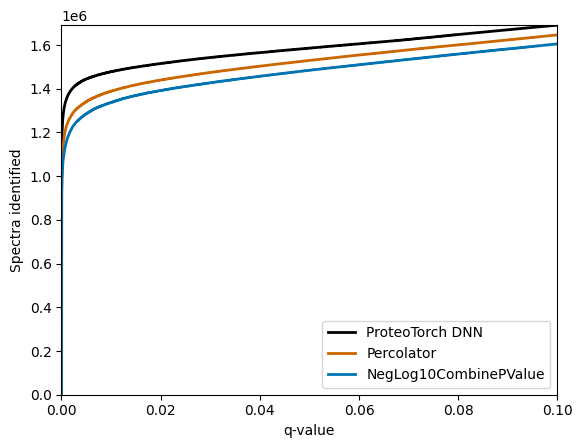
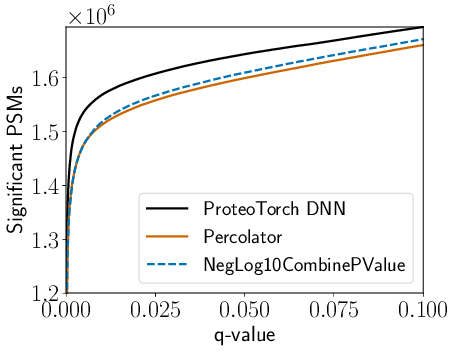
Checking in recent doc edits

diff --git a/docs/analyze.md b/docs/analyze.md
@@ -10,12 +10,13 @@ The following is a list of post-processing options when calling **proteoTorch** 
   * Method 2: linear SVM, solver L2-SVM-MFN (Percolator's solver)
   * Method 3: DNN (deep multi-layer perceptron, *default value*)
 * *\-\-output_dir*: where to write result files.  **Default = model_output/<data_file_name>/<time_stamp>/**
+* *\-\-tdc*: Use target-decoy competition to assign q-values (true/false).  **Default = true/**
 * *\-\-numThreads*: Number of CPU threads to use for parallelizable computations. **Default = 1**)
 * *\-\-initDirection*: If >= 0, specifies which feature to use as initial PSM scores during semi-supervised learning.  If = -1, automatically find and use the most discriminative feature. **Default = -1**
 * *\-\-q*: q-value tolerance when estimating positive training samples. **Default = 0.01**
 * *\-\-verbose*: Verbosity. **Default = 1**
 * *\-\-output_per_iter_granularity*: Specifies number of iterations to write recalibrated PSM scores. **Default = 5**
-* *\-\-write_output_per_iter*: Write recalibrated PSM scores after every *output_per_iter_granularity* iterations (boolean). **Default = true**
+* *\-\-write_output_per_iter*: Write recalibrated PSM scores after every *output_per_iter_granularity* iterations (true/false). **Default = true**
 * *\-\-maxIters*: Number of semi-supervised learning iterations to run. **Default = 20**
 * *\-\-seed*: Random seed when partitioning PSMs into cross-validation bins. **Default = 1**
 
@@ -34,7 +35,7 @@ The following is a list of post-processing options when calling **proteoTorch** 
 * *\-\-dnn_label_smoothing_1*: Label smoothing for training class 1 (targets within q-value tolerance). **Default = 0.99**
 * *\-\-dnn_train_qtol*: AUC q-value tolerance to measure validation performance. **Default = 0.1**
 * *\-\-false_positive_loss_factor*: Multiplicative factor to weight false positives during training. **Default = 4.0**
-* *\-\-deepInitDirection*: Produce initial PSM scores by training a large ensemble DNN to speed up training convergence (boolean). **Default = true if *method*=3**
+* *\-\-deepInitDirection*: Produce initial PSM scores by training a large ensemble DNN to speed up training convergence (true/false). **Default = true if *method*=3**
 * *\-\-deep_direction_ensemble*: Number of DNN ensembles to train during deep initial direction search. **Default = 30**
 * *\-\-load_previous_dnn*: Start iterations from previously saved model (boolean). **Default = false**
 * *\-\-previous_dnn_dir*: Previous output directory containing trained dnn weights.

diff --git a/docs/plotting.md b/docs/plotting.md
@@ -3,10 +3,11 @@
 As discussed in the quickstart, *\# identifications vs q-value* plots are available after installation by calling **proteoTorchPlot**.  Options include
 * *\-\-output*: Output file name where the figure will be stored. **Default = figure.png**
 * *\-\-maxq*: Maximum q-value to plot to: 0 < q <= 1.0. **Default = 0.1**
-* *\-\-tdc*: Perform target-decoy competition (boolean). **Default = true**
+* *\-\-tdc*: Perform target-decoy competition (true/false). **Default = true**
 * *\-\-dataset*: PIN process which was analyze (only necessary if *tdc* = true).
-* *\-\-writeTdcResults*: Write the results of TDC for all methods to new files. **Default = false**
+* *\-\-writeTdcResults*: Write the results of TDC for all methods to new files (true/false). **Default = false**
 * *\-\-tdcOutputDir*: Output directory to write TDC competition results. **Default = ''**
+* *\-\-publish*: Apply plot settings from ProteoTorch paper (true/false). **Default = false**
 
 Furhter details are available in the source, module proteoTorch.plotQvals.
 
@@ -21,9 +22,9 @@ If target and decoy results are separated into two tab-delimited files, these ma
 As an example, the following plots ProteoTorch and Percolator recalibrated scores for PSMs collected searching a [draft of the human proteome dataset](https://www.nature.com/articles/nature13302) using the recently developed high-res MS2 p-value score function, [*residue-evidence combined p-value*](https://pubs.acs.org/doi/10.1021/acs.jproteome.8b00206):
 
     proteoTorchPlot --output kim_resev.png --maxq 0.1  \
-        --tdc --dataset kim_resev.pin \
+        --tdc true --dataset kim_resev.pin --publish true \
         "ProteoTorch DNN":"score":output_dir/output.txt \
-        "Percolator":'score':kim_resev_percTargets.txt:kim_resev_percDecoys.txt \
+        "Percolator":'score':kim_resev_percolator.targets.txt:kim_resev_percolator.decoys.txt \
         "NegLog10CombinePValue":'NegLog10CombinePValue':kim_resev.pin
 
 
